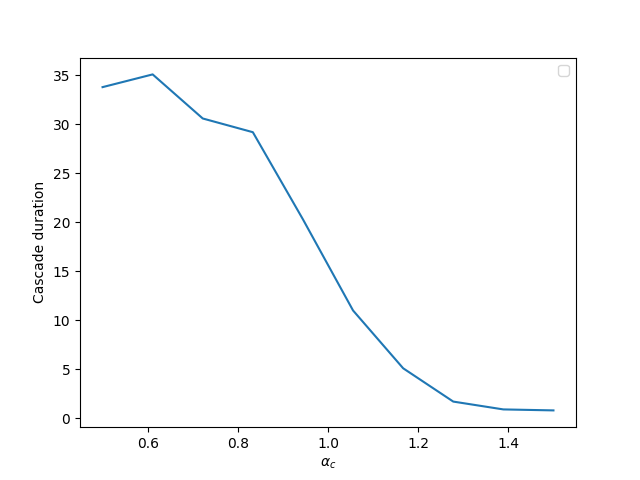
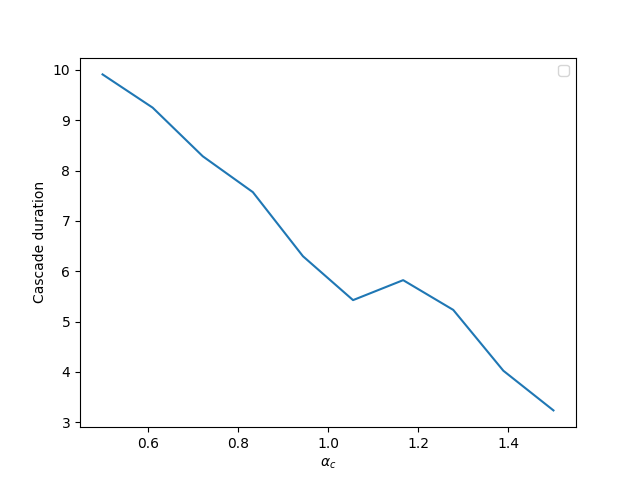
ud

diff --git a/CascadePlot.py b/CascadePlot.py
@@ -25,10 +25,10 @@ for i in range(dat_len):
             Data3[j] += int(sheet_obj.cell(row = i + 1, column = j + 1).value)/590
         elif((i-1)%4 == 3):
             Data4[j] += float(sheet_obj.cell(row = i + 1, column = j + 1).value)/10
-#plt.plot(acastars,Data1,label = 'S')
-#plt.plot(acastars,Data2,label = 'Overloads')
-#plt.plot(acastars,Data3,label = 'Desyncs')
-plt.plot(acastars,Data4)
+plt.plot(acastars,Data1,label = 'S')
+plt.plot(acastars,Data2,label = 'Overloads')
+plt.plot(acastars,Data3,label = 'Desyncs')
+#plt.plot(acastars,Data4)
 plt.legend()
 plt.ylabel("Cascade duration")
 plt.xlabel(r"$\alpha_c$")

diff --git a/cascadeDataLog.py b/cascadeDataLog.py
@@ -15,10 +15,10 @@ con = 15
 pas = 0
 k = 4
 p = 0.1
-intervals = 10
+intervals = 30
 wb = Workbook()
 ws = wb.active
-acastars = np.linspace(0.5,1.5,intervals)
+acastars = np.linspace(0,2.5,intervals)
 ws.append(list(acastars))
 for i in range(10):
     G = nx.watts_strogatz_graph(n, k, p) 

diff --git a/cascadePlus.py b/cascadePlus.py
@@ -218,7 +218,7 @@ def dynamicCascade(alphastar,G,p,debug = False):
 
 n=30
 alpha = 10
-alphastar = 1
+alphastar = 0
 kappa = n
 gamma = 1
 gen = 15

diff --git a/cascadingFaliures.py b/cascadingFaliures.py
@@ -207,7 +207,7 @@ def dynamicCascade(alphastar,G,p,debug = False):
 
 n=30
 alpha = 10
-alphastar = 1
+alphastar = 0
 kappa = n
 gamma = 1
 gen = 15
